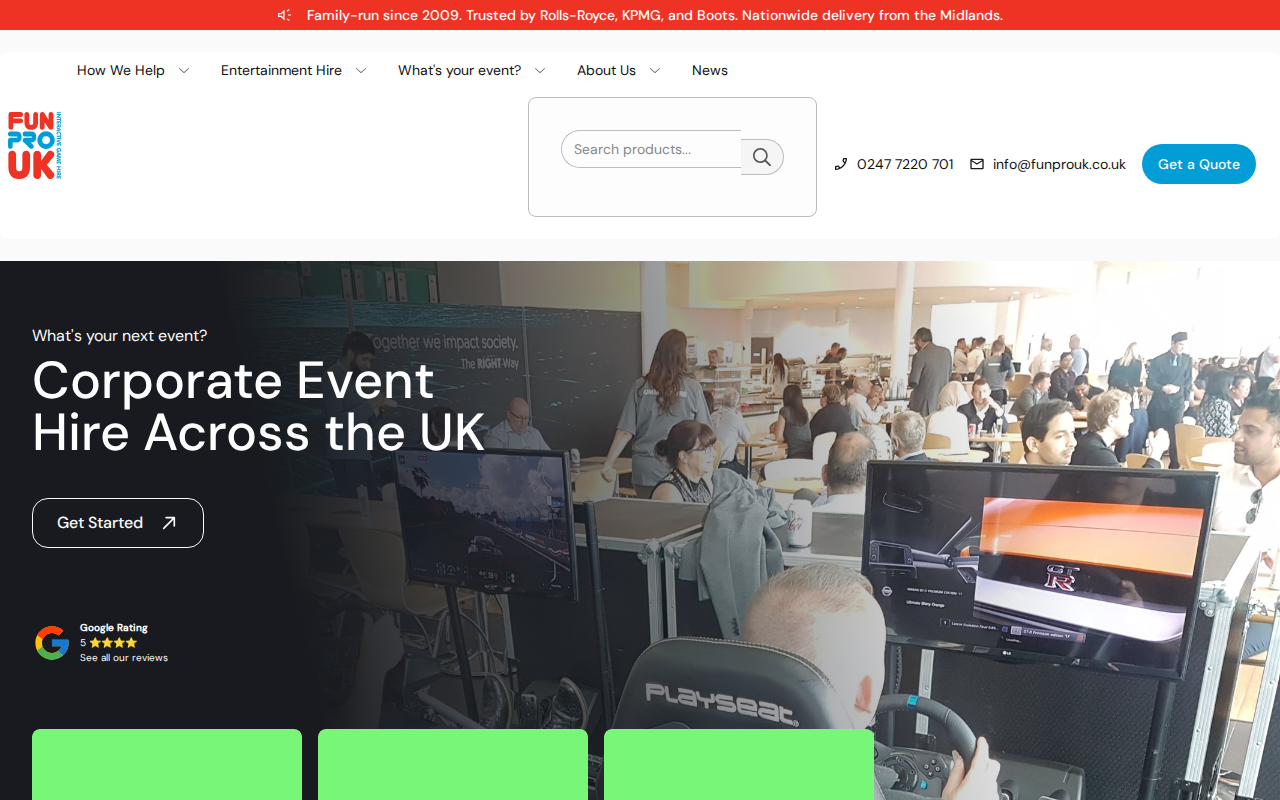
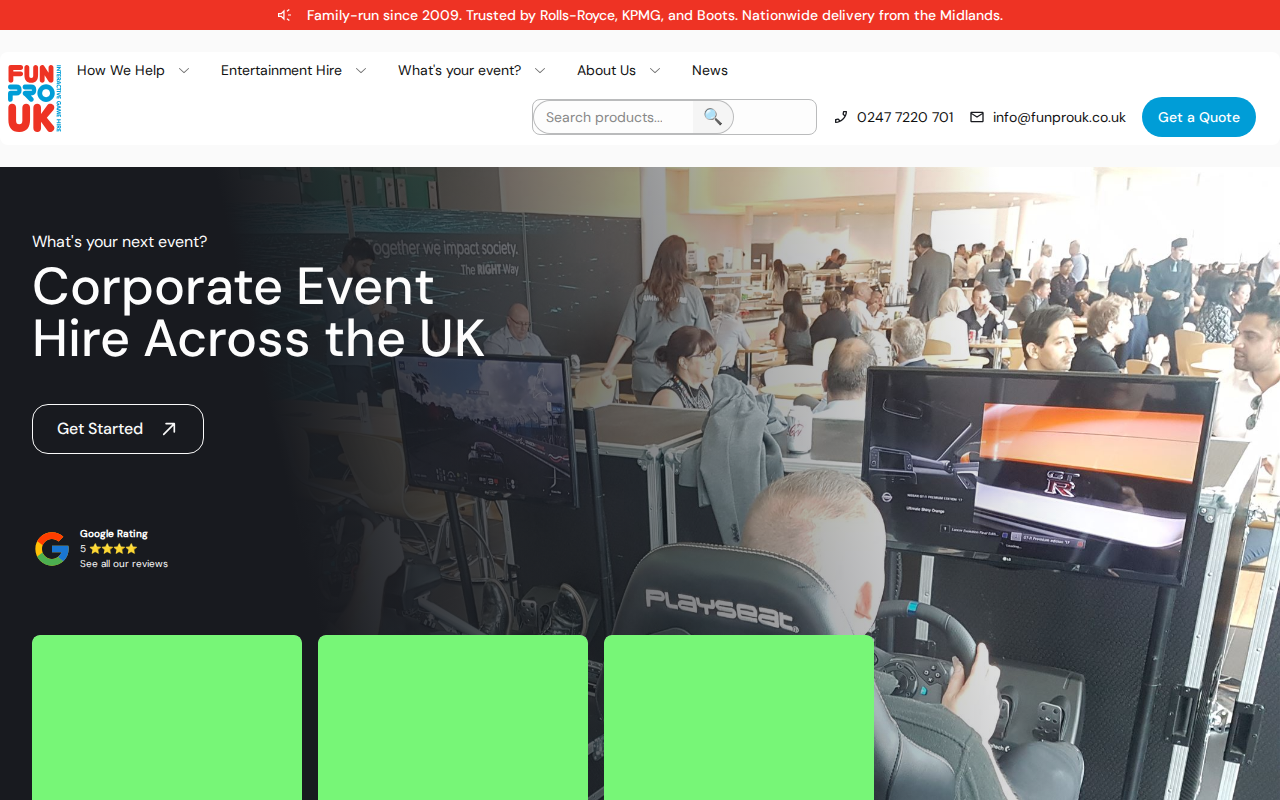
Use template search-box and fix inline styling
- Remove custom search-box.html, use template's version instead
- Pass custom params: empty label, "Search products..." placeholder, emoji button
- Update CSS to target .search-box class instead of #nav-search
- Remove padding/margin for inline display with other nav items
- Reduce input width and padding for compact appearance

diff --git a/css/theme.scss b/css/theme.scss
@@ -864,11 +864,13 @@ body.horizontal-nav main {
       line-height: 24px;
     }
 
-    #nav-search {
+    .search-box {
       grid-area: search;
       display: flex;
       align-items: center;
       gap: 0;
+      margin: 0;
+      padding: 0;
 
       label {
         display: none;
@@ -878,12 +880,13 @@ body.horizontal-nav main {
         border: 1px solid #babbbc;
         border-right: none;
         border-radius: 5000px 0 0 5000px;
-        padding: 8px 12px;
+        padding: 6px 12px;
         font-size: 14px;
         line-height: 20px;
-        width: 180px;
+        width: 160px;
         outline: none;
         transition: border-color 0.2s ease-in-out;
+        margin: 0;
 
         &:focus {
           border-color: #009dd7;
@@ -899,32 +902,22 @@ body.horizontal-nav main {
         border-left: none;
         border-radius: 0 5000px 5000px 0;
         background: #f5f5f5;
-        padding: 8px 12px;
+        padding: 6px 10px;
         cursor: pointer;
         display: flex;
         align-items: center;
         justify-content: center;
         transition: background-color 0.2s ease-in-out;
+        margin: 0;
+        line-height: 20px;
 
         &:hover {
           background: #e5e5e5;
-        }
-
-        svg {
-          width: 18px;
-          height: 18px;
-          color: #555;
         }
       }
 
       .search-error {
         display: none;
-        color: red;
-        font-size: 12px;
-        position: absolute;
-        bottom: -20px;
-        left: 0;
-        white-space: nowrap;
       }
 
       noscript {
@@ -973,7 +966,7 @@ body.horizontal-nav main {
       #nav-quote {
         display: none;
       }
-      #nav-search {
+      .search-box {
         display: none;
       }
     }

diff --git a/_includes/navigation-end.html b/_includes/navigation-end.html
@@ -1,4 +1,4 @@
-{%- include "search-box.html" -%}
+{%- include "search-box.html", label: "", placeholder: "Search products...", button_text: "🔍" -%}
 {%- include "phone-link.html", id: "nav-phone" -%}
 {%- include "email-link.html", id: "nav-email" -%}
 